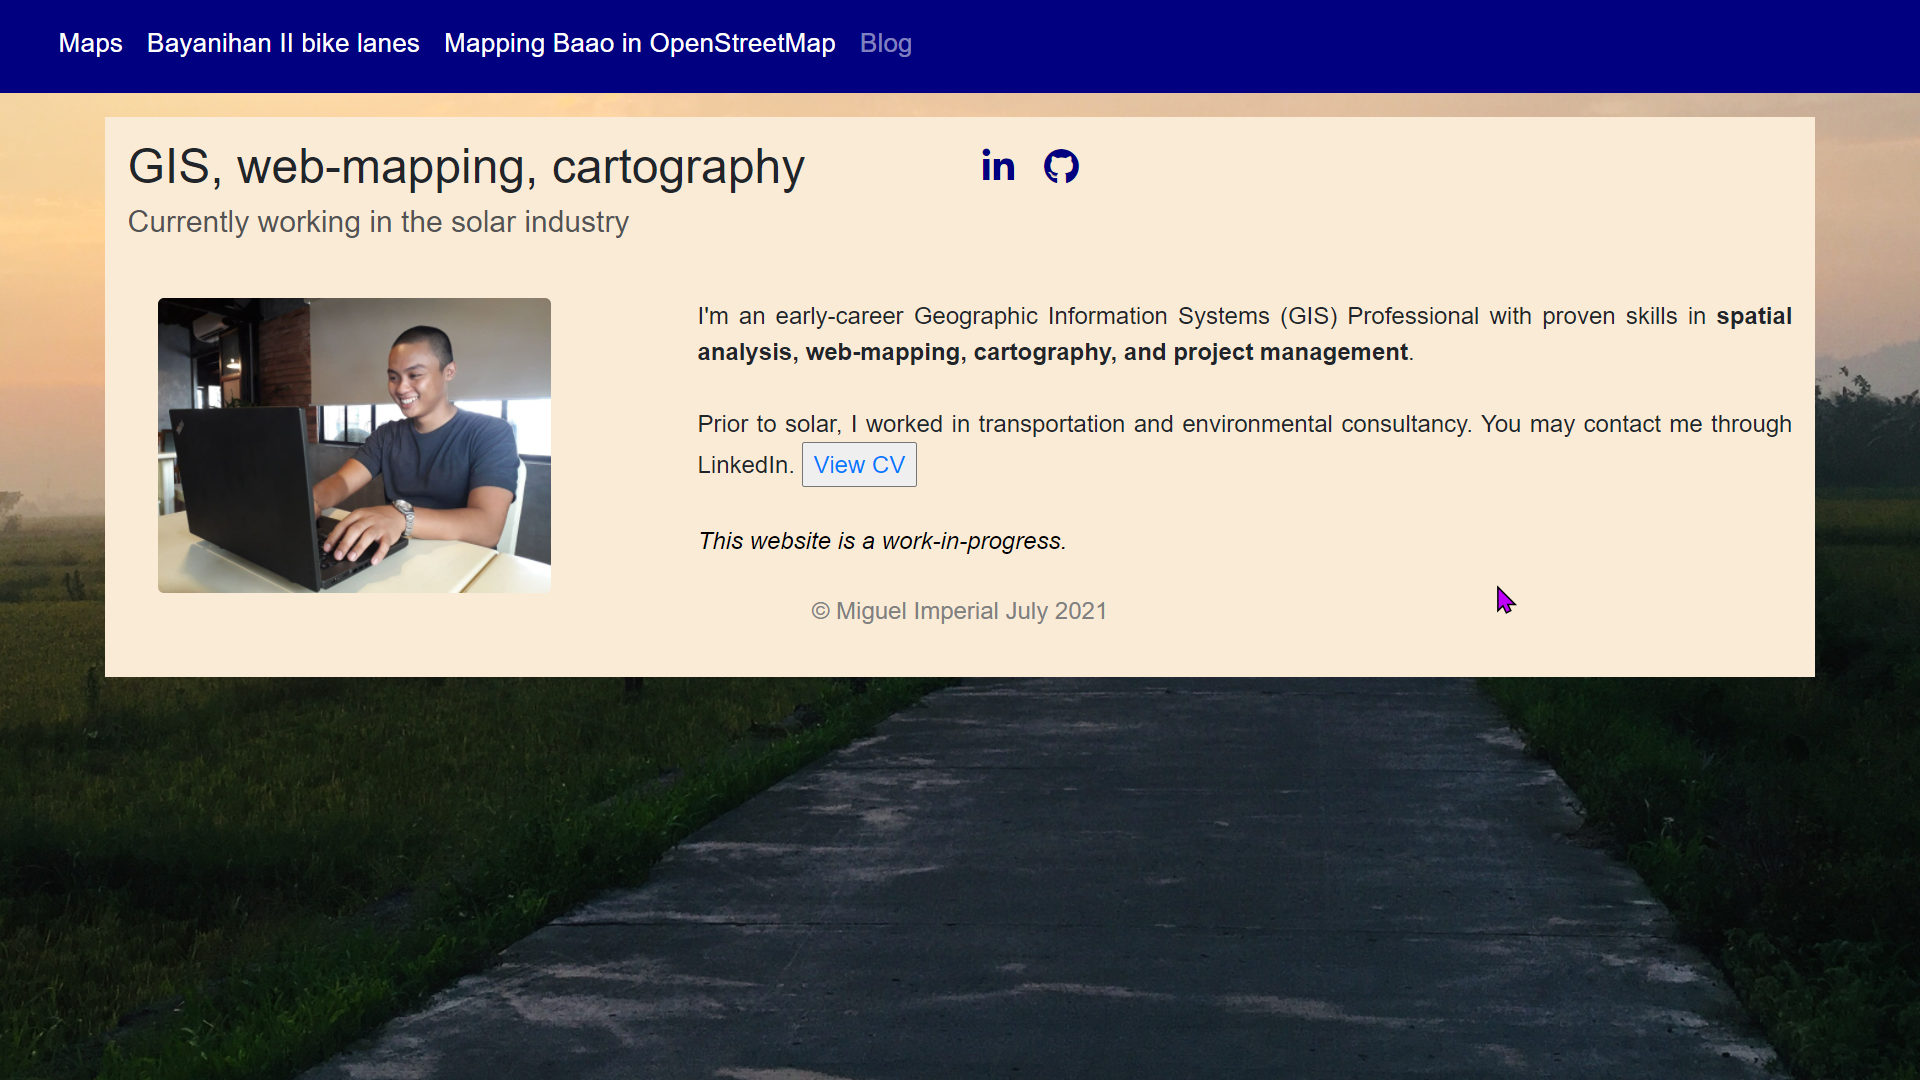
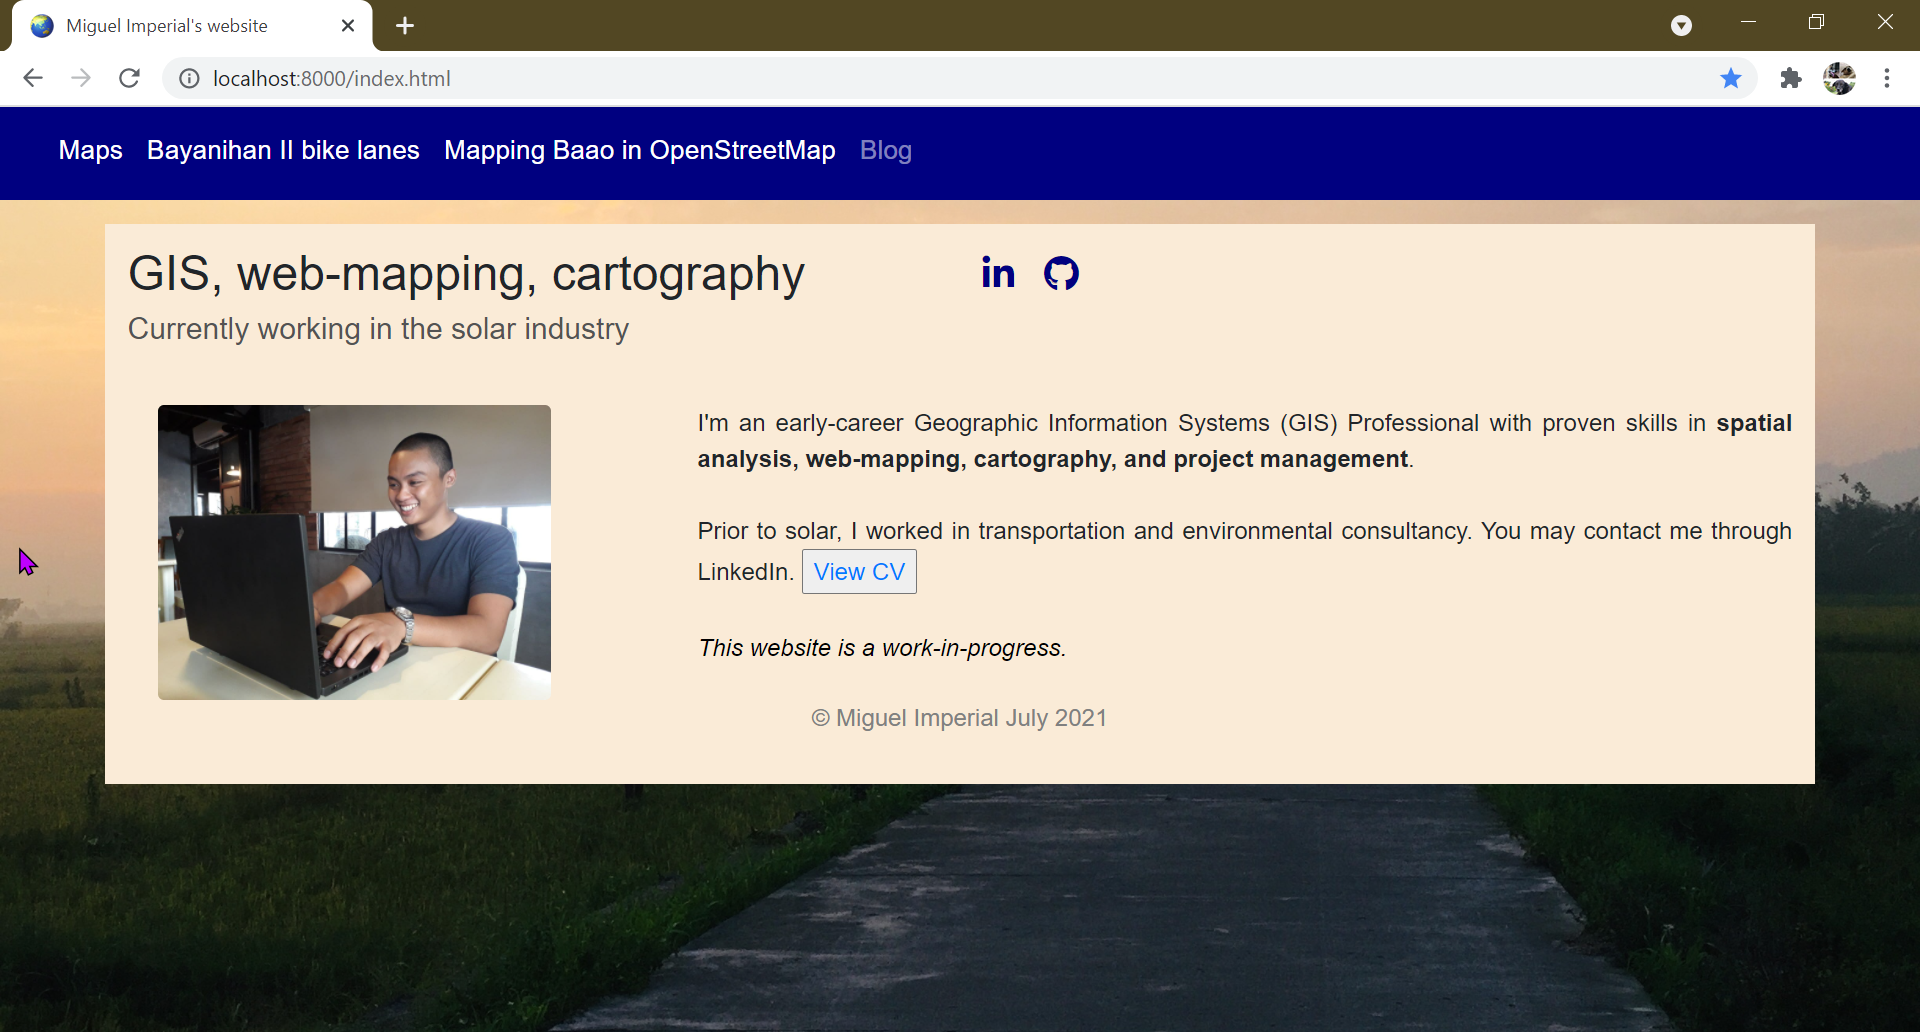
Add v2 screenshot to README

diff --git a/README.md b/README.md
@@ -1,7 +1,7 @@
 # My simple website/landing page
 ## I made this to compile everything there is to know about me as a GIS professional. https://miguel123-gis.github.io/website/
 </br></br>
-V1 25 October 2021
+V2 25 October 2021
 ![Screenshot](images/v2_screenshot.png)
 </br></br>
 V1 23 September 2021
